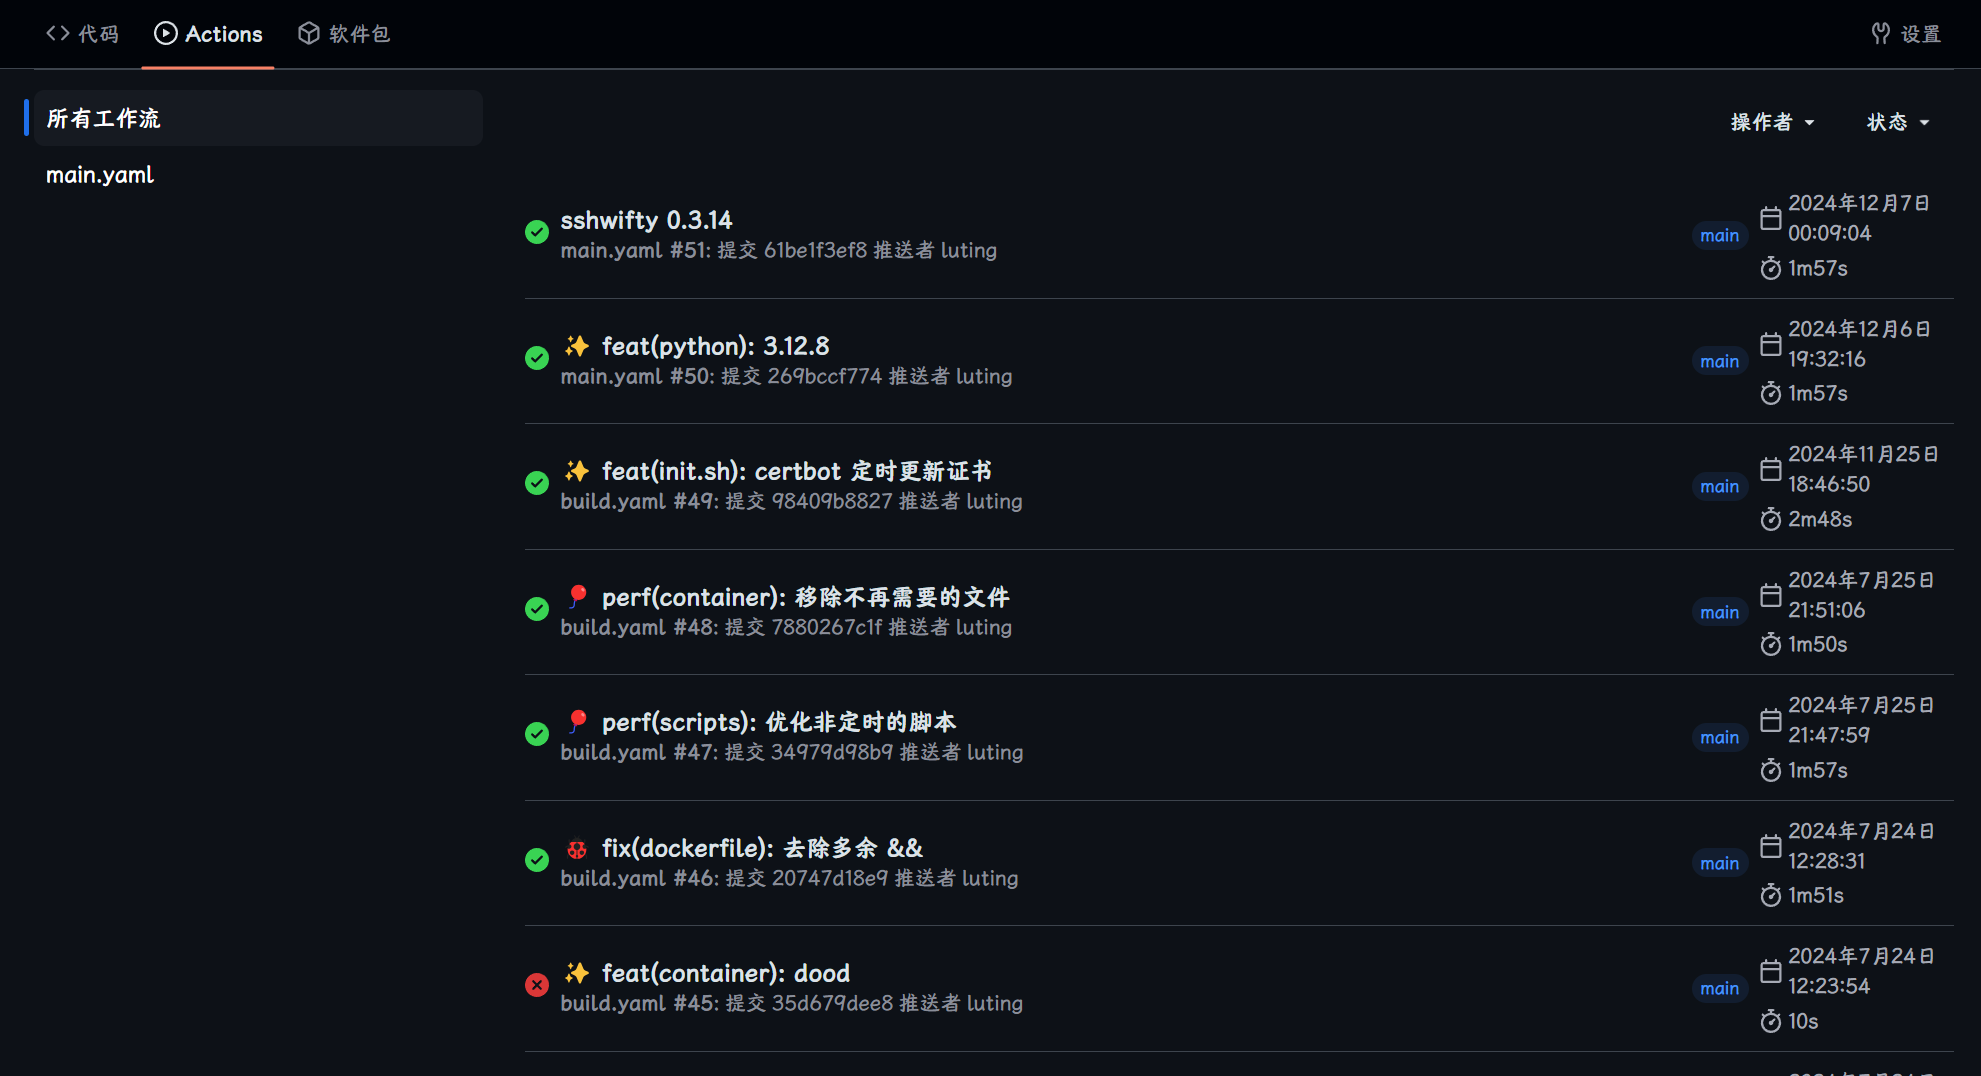
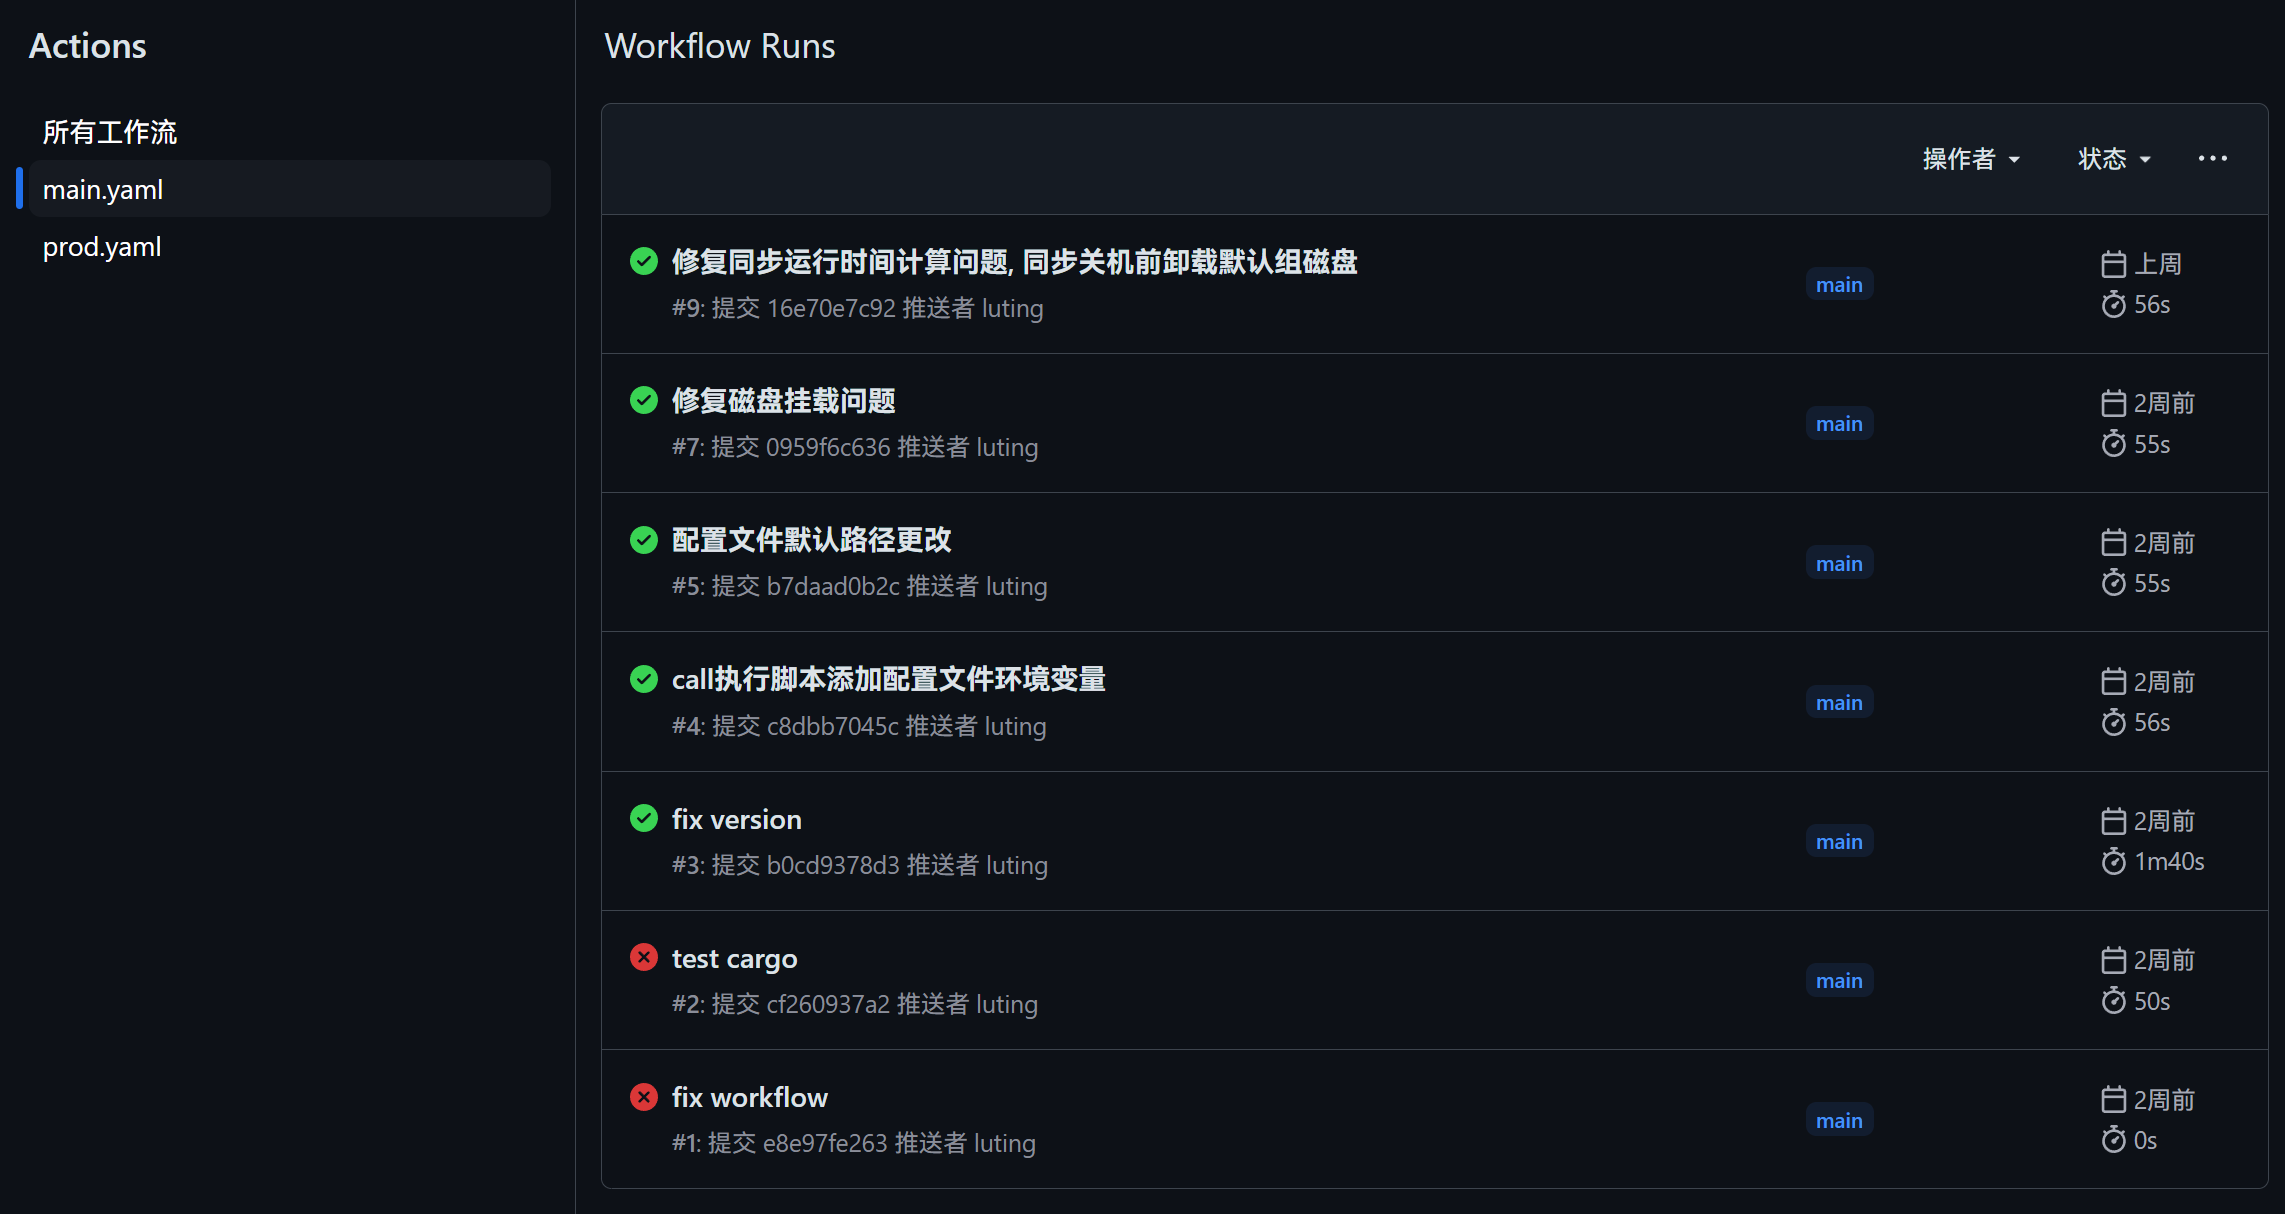
Action工作流页面同步

diff --git a/src/actions.scss b/src/actions.scss
@@ -1,4 +1,99 @@
 // Made by Luting ^-^
+
+.page-content.repository.actions .ui.grid {
+  .four.wide {
+    border-right: 1px solid var(--color-light-border);
+    min-height: calc(-104px + 100vh);
+
+    &:before {
+      content: 'Actions';
+      display: block;
+      font-size: 20px;
+      font-weight: 600;
+      margin-top: 6px;
+      margin-bottom: 24px;
+    }
+
+    .item {
+      font-weight: 400;
+    }
+  }
+
+  .twelve.wide {
+    &:before {
+      content: 'Workflow Runs';
+      display: block;
+      font-size: 20px;
+      margin-top: 6px;
+      margin-bottom: 24px;
+      margin-left: 2px;
+    }
+
+    .ui.secondary.menu {
+      background-color: var(--color-box-header);
+      border: 1px solid var(--color-light-border);
+      border-bottom: 0;
+      border-top-left-radius: var(--border-radius);
+      border-top-right-radius: var(--border-radius);
+      padding: 16px;
+      margin-bottom: 0;
+
+      .item {
+        padding: 6px 12px;
+      }
+    }
+
+    .ui.info.message {
+      border-radius: 0;
+      border-left-color: var(--color-light-border);
+      border-right-color: var(--color-light-border);
+      margin: 0;
+
+      ~ .run-list {
+        border-top: 0;
+      }
+    }
+
+    .run-list {
+      border: 1px solid var(--color-light-border);
+      border-bottom-left-radius: var(--border-radius);
+      border-bottom-right-radius: var(--border-radius);
+
+      .flex-item {
+        padding: 16px;
+
+        .flex-item-leading {
+          align-self: flex-start;
+          margin-top: 2px;
+        }
+
+        .flex-item-main {
+          gap: 0.5rem;
+        }
+
+        .flex-item-trailing {
+          justify-content: space-between;
+
+          > .ui.label {
+            border-radius: var(--border-radius);
+            margin-left: 32px;
+          }
+
+          .run-list-item-right {
+            width: 80px;
+          }
+        }
+      }
+    }
+  }
+}
+
+@media (max-width: 767.98px) {
+  .page-content.repository.actions .ui.grid .four.wide {
+    min-height: auto;
+  }
+}
+
 // 工作流禁用标签
 .ui.vertical.menu .item > .ui.red.label {
   color: var(--color-error-text);
@@ -19,6 +114,7 @@
   }
 }
 
+// 日志
 .ui.container.action-view-container {
   width: auto;
   max-width: 100%;

diff --git a/.github/release.md b/.github/release.md
@@ -1,21 +1,5 @@
 ## 🌈 Style
 
-- **移除字体 (不再集成个性化字体)**
-
 #### 更符合 GitHub 风格
 
-- 首页动态图标大小优化
-- 仓库代码页侧边栏宽度优化
-- 仓库文件列表在手机下隐藏提交信息
-- 仓库文件列表文件图标名称位置优化
-- 仓库导航栏颜色同步
-- 按钮大小和颜色优化
-- 输入框大小和颜色优化
-- 导航栏分割线优化
-- 下拉菜单分割线优化
-- 动画效果优化
-
-## 🐞 Fix
-
-- 修复 1.23 后仓库文件列表整行悬停时的背景颜色
-- 修复软件包页面下组织标签样式
+- Action工作流页面同步
